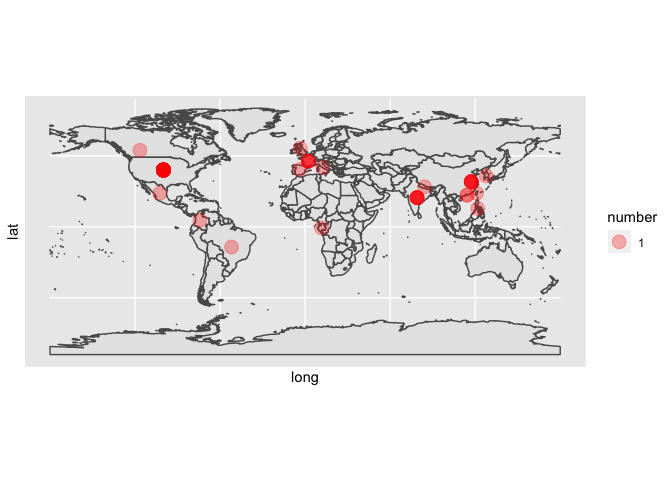
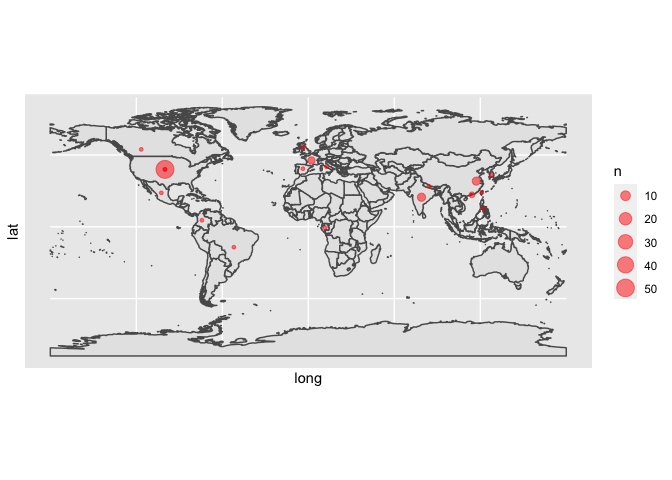
commit

diff --git a/world_map.md b/world_map.md
@@ -94,10 +94,11 @@ lab %>%
 ``` r
 world <- ne_countries(scale = "medium", returnclass = "sf")
 lab %>% 
-  group_by(Country) %>% 
+  group_by(Country,lat,long) %>% 
+  summarize(n=n()) %>% 
   ggplot() +
   geom_sf(data = world) +
-  geom_point(aes(x=long, y=lat, size=number), color="red", fill="red", alpha=0.3, shape=21) 
+  geom_point(aes(x=long, y=lat, size=n), color="red", fill="red", alpha=0.5, shape=21) 
 ```
 
 ![](world_map_files/figure-markdown_github/unnamed-chunk-4-1.png)
